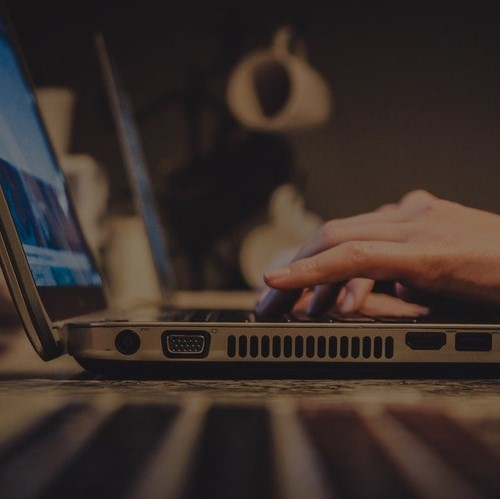
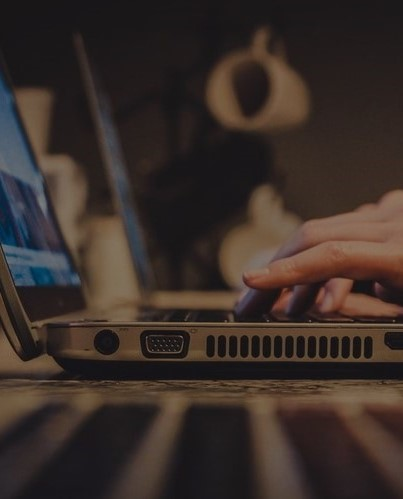
Background phone

diff --git a/src/components/VerticalPanelsV2/VerticalPanelsV2.tsx b/src/components/VerticalPanelsV2/VerticalPanelsV2.tsx
@@ -2,11 +2,11 @@ import React from 'react'
 import css from './verticalPanelsV2.module.css'
 
 export default function VerticalPanelsV2(props: {
-  titleCard: any
-  paragraph: any
-  backgroudColor: any
-  iconColor: any
-  icon: any
+  titleCard: string
+  paragraph: string
+  backgroudColor: string
+  iconColor: string
+  icon: string
 }) {
   const { titleCard, paragraph, backgroudColor, iconColor, icon } = props
 

diff --git a/src/components/HorizontalPanel/horizontalPanel.module.css b/src/components/HorizontalPanel/horizontalPanel.module.css
@@ -27,7 +27,7 @@
 @media (max-width: 600px) {
   .homeContainer {
     background: url('../../assets/laptopQ.jpeg') 0 -300px no-repeat;
-    background-size: 100% 250%;
+    background-size: 100% 200%;
     text-align: center;
     opacity: 0.9;
     color: white;
